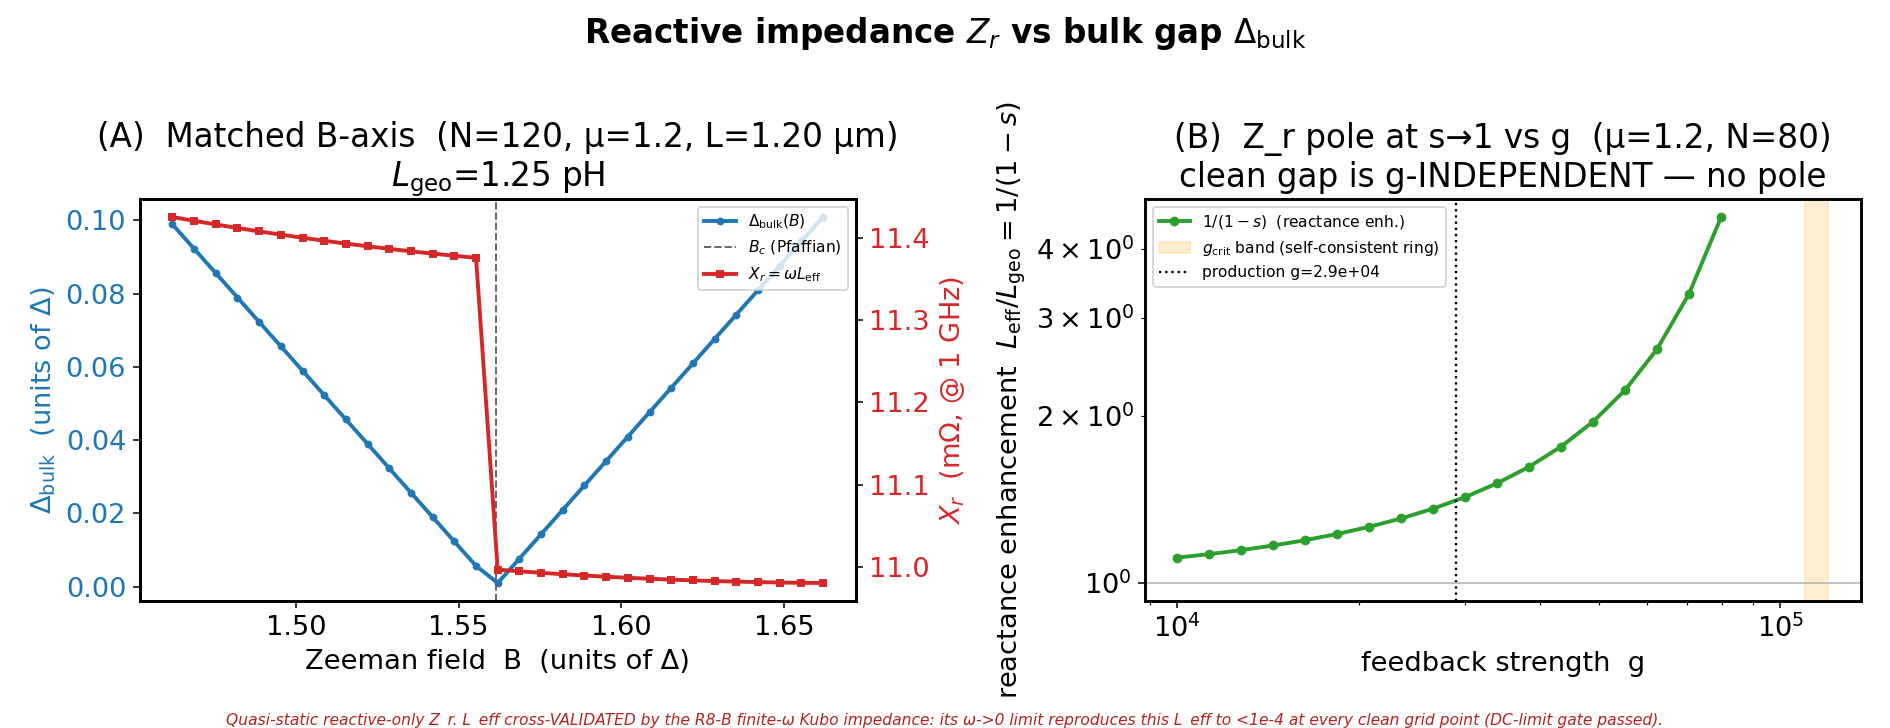
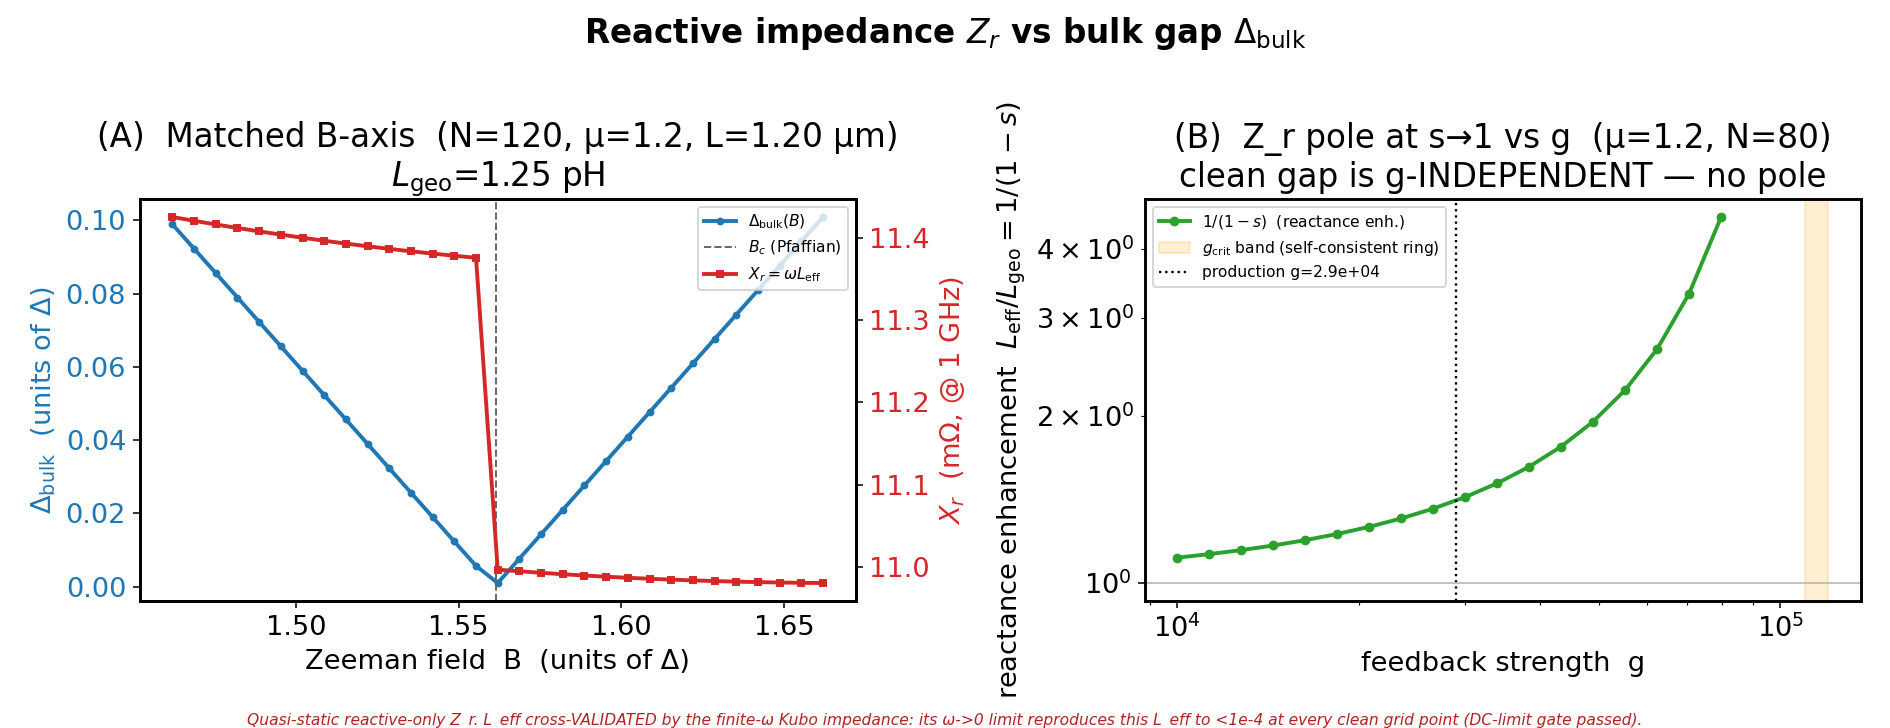
Remove the last stage labels from in-figure text: TASK-2 in the Figure 12 verdict box, R8-B in the Figure 1 and 2 footnote of the reactive-impedance run
Two string literals changed; the three images were redrawn from the committed result files.
Plotted data, axis limits and the text-free render are identical; every changed pixel lies inside a changed text box.

Changed region(s): [[0.1249, 0.967, 0.8741, 1.0]]

diff --git a/src/bdg_r8_reactive_impedance.py b/src/bdg_r8_reactive_impedance.py
@@ -437,7 +437,7 @@ def nscaling_enhancement(mu: float = 1.2, g: float = G_R7,
 # ════════════════════════════════════════════════════════════════════════
 # 8 — Figures (side-by-side Z_r vs Delta_bulk) and written report
 # ════════════════════════════════════════════════════════════════════════
-_PRELIM = ("Quasi-static reactive-only Z_r. L_eff cross-VALIDATED by the R8-B "
+_PRELIM = ("Quasi-static reactive-only Z_r. L_eff cross-VALIDATED by the "
            "finite-ω Kubo impedance: its ω->0 limit reproduces this L_eff to "
            "<1e-4 at every clean grid point (DC-limit gate passed).")
 

diff --git a/src/bdg_r5_anderson_mixing.py b/src/bdg_r5_anderson_mixing.py
@@ -1069,7 +1069,7 @@ def figure12_anderson_above_gcrit(
     fp_names = [s for s in seeds if seeds[s]["fixed_point"]]
     other_names = [s for s in seeds if not seeds[s]["fixed_point"]]
     txt = (
-        f"TASK-2 VERDICT: does Anderson converge above $g_{{crit}}$?  ->  {verdict}\n\n"
+        f"VERDICT: does Anderson converge above $g_{{crit}}$?  ->  {verdict}\n\n"
         f"At g={hg:.0e} (above g_crit): {n_fp}/{hrow['n_seeds']} seeds "
         f"({', '.join(fp_names)}) reach a\n"
         f"GENUINE fixed point (phi*={hrow['root_bisection']*1e3:.3f} mrad, matching\n"
